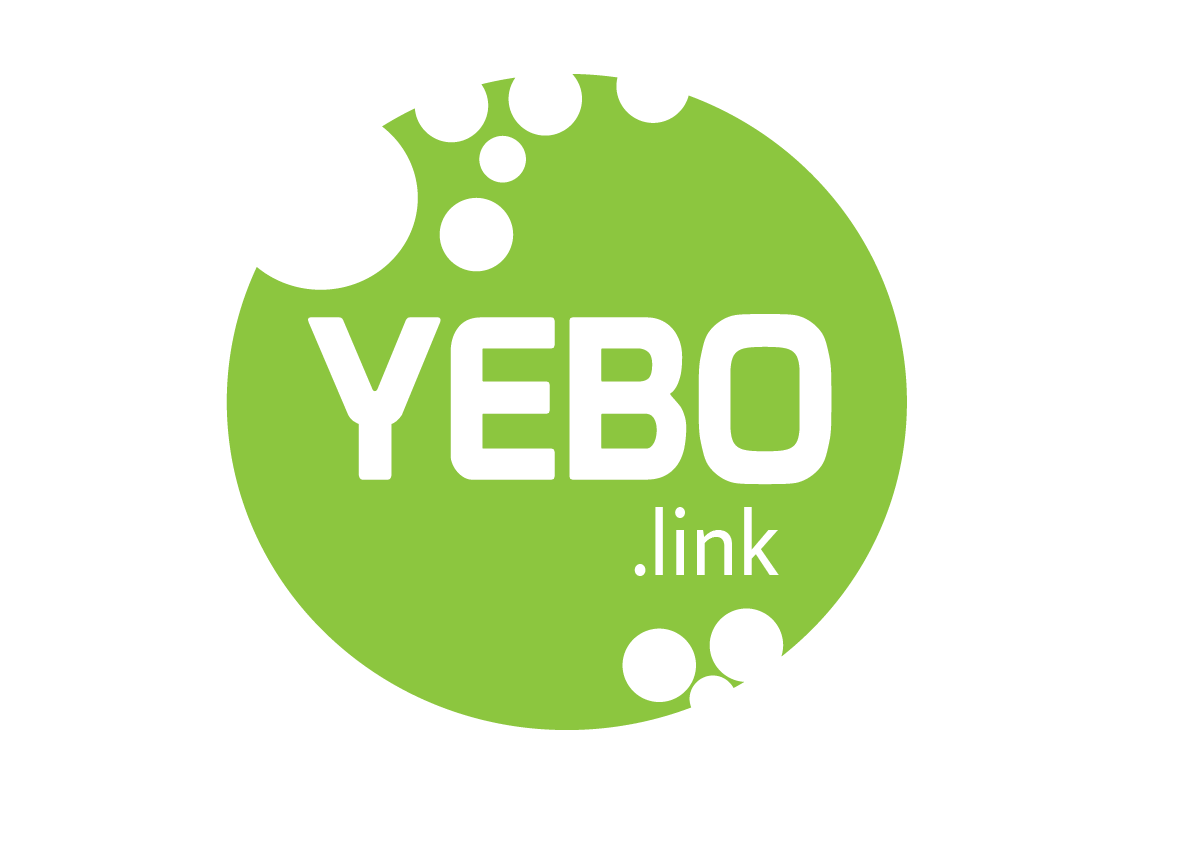
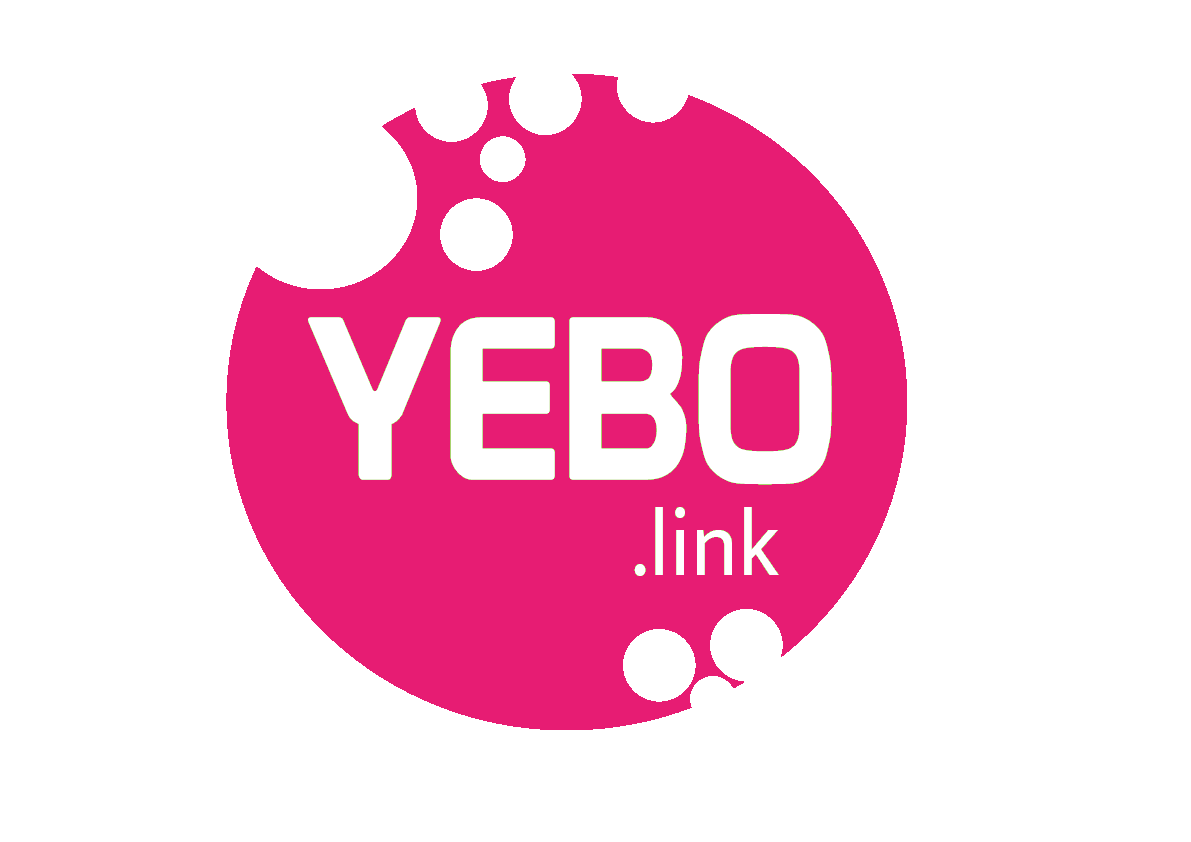
Style all the things

Changed region(s): [[0.1864, 0.0926, 0.7767, 0.8646]]

diff --git a/app/ui/archiveTile.js b/app/ui/archiveTile.js
@@ -53,7 +53,7 @@ function password(state) {
           id="password-input"
           class="${state.archive.password
             ? ''
-            : 'invisible'} border-default rounded-default focus:border-primary leading-normal my-1 py-1 px-2 h-8 dark:bg-grey-80"
+            : 'invisible'} border-default rounded-default focus:border-primary leading-normal my-1 py-1 px-2 h-8 bg-whte"
           autocomplete="off"
           maxlength="${MAX_LENGTH}"
           type="password"
@@ -261,7 +261,7 @@ module.exports = function(state, emit, archive) {
   return html`
     <send-archive
       id="archive-${archive.id}"
-      class="flex flex-col items-start rounded-default shadow-light bg-white p-4 w-full dark:bg-grey-90 dark:border-default dark:border-grey-70"
+      class="flex flex-col items-start rounded-default shadow-light bg-white p-4 w-full  dark:border-default dark:border-grey-70"
     >
       <div class="text-sm opacity-75 w-full mt-2 mb-2">
         
@@ -309,7 +309,7 @@ module.exports = function(state, emit, archive) {
 module.exports.wip = function(state, emit) {
   return html`
     <send-upload-area
-      class="flex flex-col bg-white h-full w-full dark:bg-grey-90"
+      class="flex flex-col bg-white h-full w-full"
       id="wip"
     >
       ${list(
@@ -318,11 +318,11 @@ module.exports.wip = function(state, emit) {
           .map(f =>
             fileInfo(f, remove(f, state.translate('deleteButtonHover')))
           ),
-        'flex-shrink bg-grey-10 rounded-t overflow-y-auto px-6 py-4 md:h-full md:max-h-half-screen dark:bg-black',
-        'bg-white px-2 my-2 shadow-light rounded-default dark:bg-grey-90 dark:border-default dark:border-grey-80'
+        'flex-shrink bg-white rounded-t overflow-y-auto px-6 py-4 md:h-full md:max-h-half-screen bg-white',
+        'bg-white px-2 my-2 shadow-light rounded-default dark:border-default dark:border-grey-80'
       )}
       <div
-        class="flex-shrink-0 flex-grow flex items-end p-4 bg-grey-10 rounded-b mb-1 font-medium dark:bg-grey-90"
+        class="flex-shrink-0 flex-grow flex items-end p-4 bg-white rounded-b mb-1 font-medium "
       >
         <input
           id="file-upload"
@@ -363,6 +363,7 @@ module.exports.wip = function(state, emit) {
       >
         ${state.translate('uploadButton')}
       </button>
+      .
     </send-upload-area>
   `;
 
@@ -422,7 +423,7 @@ module.exports.uploading = function(state, emit) {
   return html`
     <send-upload-area
       id="${archive.id}"
-      class="flex flex-col items-start rounded-default shadow-light bg-white p-4 w-full dark:bg-grey-90"
+      class="flex flex-col items-start rounded-default shadow-light bg-white p-4 w-full"
     >
       ${archiveInfo(archive)}
       <div class="text-xs opacity-75 w-full mt-2 mb-2">
@@ -482,7 +483,7 @@ module.exports.empty = function(state, emit) {
 
   return html`
     <send-upload-area
-      class="flex flex-col items-center justify-center border-2 border-dashed border-grey-transparent rounded-default px-6 py-16 h-full w-full dark:border-grey-60"
+      class="flex flex-col items-center justify-center px-6 py-16 h-full w-full"
       onclick="${e => {
         if (e.target.tagName !== 'LABEL') {
           document.getElementById('file-upload').click();
@@ -587,7 +588,7 @@ module.exports.preview = function(state, emit) {
 
   return html`
     <send-archive
-      class="flex flex-col max-h-full bg-white p-4 w-full md:w-128 dark:bg-grey-90"
+      class="flex flex-col max-h-full bg-white p-4 w-full md:w-128"
     >
       <div class="border-default rounded-default py-3 px-6 dark:border-grey-70">
         ${archiveInfo(archive)} ${details}
@@ -617,7 +618,7 @@ module.exports.downloading = function(state) {
   const progressPercent = percent(progress);
   return html`
     <send-archive
-      class="flex flex-col bg-white rounded-default shadow-light p-4 w-full max-w-sm md:w-128 dark:bg-grey-90"
+      class="flex flex-col bg-white rounded-default shadow-light p-4 w-full max-w-sm md:w-128"
     >
       ${archiveInfo(archive)}
       <div class="link-primary text-sm font-medium mt-2">

diff --git a/app/ui/home.js b/app/ui/home.js
@@ -22,7 +22,7 @@ module.exports = function(state, emit) {
   if (archives.length > 0 && state.WEB_UI.UPLOADS_LIST_NOTICE_HTML) {
     archives.push(html`
       <p
-        class="w-full p-2 border-default dark:border-grey-70 rounded-default text-orange-60 bg-yellow-40 text-center leading-normal"
+        class="w-full p-2 text-orange-60 bg-yellow-40 text-center leading-normal"
       >
         ${raw(state.WEB_UI.UPLOADS_LIST_NOTICE_HTML)}
       </p>
@@ -34,7 +34,7 @@ module.exports = function(state, emit) {
   if (archives.length > 0 && state.WEB_UI.SHOW_THUNDERBIRD_SPONSOR) {
     archives.push(html`
       <a
-        class="w-full p-2 border-default dark:border-grey-70 rounded-default text-orange-60 bg-yellow-40 text-center leading-normal d-block"
+        class="w-full p-2 text-orange-60 bg-yellow-40 text-center leading-normal d-block"
         href="https://www.thunderbird.net/"
       >
         <svg
@@ -54,19 +54,23 @@ module.exports = function(state, emit) {
     `);
   }
 
-  const right =
-    archives.length === 0
-      ? intro(state)
-      : list(archives, 'p-2 h-full overflow-y-auto w-full', 'mb-4 w-full');
+  const right = intro(state)
 
   return html`
     <main class="main">
       ${state.modal && modal(state, emit)}
-      <section
-        class="h-full w-full p-6 md:p-8 overflow-hidden md:flex md:flex-row md:rounded-xl md:shadow-big"
-      >
-        <div class="px-2 w-full md:px-0 md:mr-8 md:w-1/2">${left}</div>
-        <div class="mt-6 w-full md:w-1/2 md:-m-2">${right}</div>
+      <section class="h-full w-full p-6 md:p-8 overflow-hidden md:flex md:flex-row" >
+        <div class="mt-6 w-full md:w-1/2 md:-m-2 grid place-items-center"> <img src="${assets.get('Yebo.png')}"> </div>
+        <section class="h-full w-full p-6 md:p-8 overflow-hidden md:flex md:flex-row"> 
+          <div>
+            <div class="text-2xl font-bold">Share with</div>
+            <div class="text-5xl font-bold">Confidence!</div>
+            <section class="h-full w-full pt-6 md:pt-8 pb-6 md:pb-8 overflow-hidden md:flex md:flex-row"> 
+              <div class="px-2 w-full md:px-0 md:mr-8 md:w-1/2">${left}</div>
+              <div class="mt-6 w-full md:w-1/2 md:-m-2">${right}</div>
+            </section>
+          </div>
+        </section>
       </section>
     </main>
   `;

diff --git a/app/main.css b/app/main.css
@@ -37,7 +37,7 @@ body {
 
 .btn {
   @apply bg-primary;
-  @apply text-white;
+  @apply text-black;
   @apply cursor-pointer;
   @apply py-4;
   @apply px-6;
@@ -192,6 +192,7 @@ footer li a:hover {
 
 .main > section {
   @apply bg-white;
+  @apply text-black;
 }
 
 #password-msg::after {
@@ -283,14 +284,14 @@ select {
 
 @screen dark {
   body {
-    @apply text-grey-10;
+    @apply text-black;
 
     background-image: unset;
   }
 
   .btn {
     @apply bg-primary;
-    @apply text-white;
+    @apply text-black;
   }
 
   .btn:hover {
@@ -314,14 +315,8 @@ select {
   }
 
   .main > section {
-    @apply bg-grey-90;
-  }
-
-  @screen md {
-    .main > section {
-      @apply border-default;
-      @apply border-grey-80;
-    }
+    @apply bg-white;
+    @apply text-black;
   }
 }
 
@@ -377,12 +372,12 @@ select {
 .white-primary:hover,
 .white-primary:focus {
   @apply bg-primary;
-  @apply text-white;
+  @apply text-black;
 }
 
 .primary {
   @apply bg-primary;
-  @apply text-white;
+  @apply text-black;
 }
 
 .white-violet {
@@ -394,14 +389,14 @@ select {
 .white-violet:hover,
 .white-violet:focus {
   @apply bg-violet;
-  @apply text-white;
+  @apply text-black;
 
   background-image: var(--violet-gradient);
 }
 
 .violet {
   @apply bg-violet;
-  @apply text-white;
+  @apply text-black;
 }
 
 .violet:hover,

diff --git a/app/ui/downloadPassword.js b/app/ui/downloadPassword.js
@@ -6,7 +6,7 @@ module.exports = function(state, emit) {
 
   const div = html`
     <div
-      class="h-full w-full flex flex-col items-center justify-center bg-white py-8 max-w-md mx-auto dark:bg-grey-90"
+      class="h-full w-full flex flex-col items-center justify-center bg-white py-8 max-w-md mx-auto"
     >
       <h1 class="text-3xl font-bold mb-4">
         ${state.translate('downloadTitle')}
@@ -31,7 +31,7 @@ module.exports = function(state, emit) {
           id="password-input"
           class="w-full border-l border-t border-b rounded-l-lg rounded-r-none ${invalid
             ? 'border-red dark:border-red-40'
-            : 'border-grey'} leading-loose px-2 py-1 dark:bg-grey-80"
+            : 'border-grey'} leading-loose px-2 py-1 bg-white"
           maxlength="4096"
           autocomplete="off"
           placeholder="${state.translate('unlockInputPlaceholder')}"

diff --git a/app/ui/unsupported.js b/app/ui/unsupported.js
@@ -27,7 +27,7 @@ module.exports = function(state, emit) {
     <main class="main">
       ${state.modal && modal(state, emit)}
       <section
-        class="flex flex-col items-center justify-center text-center bg-white m-6 px-6 py-8 border-default border-grey-30 md:border-none md:px-12 md:py-16 shadow-default w-full md:h-full dark:bg-grey-90"
+        class="flex flex-col items-center justify-center text-center bg-white m-6 px-6 py-8 border-default border-grey-30 md:border-none md:px-12 md:py-16 shadow-default w-full md:h-full"
       >
         <h1 class="text-3xl font-bold">${strings.header}</h1>
         <p class="mt-4 mb-8 max-w-md leading-normal">${strings.description}</p>

diff --git a/app/ui/selectbox.js b/app/ui/selectbox.js
@@ -18,7 +18,7 @@ module.exports = function(selected, options, translate, changed, htmlId) {
   return html`
     <select
       id="${htmlId}"
-      class="appearance-none cursor-pointer border-default rounded-default bg-grey-10 hover:border-primary focus:border-primary pl-1 pr-8 py-1 my-1 h-8 dark:bg-grey-80"
+      class="appearance-none cursor-pointer border-default rounded-default bg-grey-10 hover:border-primary focus:border-primary pl-1 pr-8 py-1 my-1 h-8"
       data-selected="${selected}"
       onchange="${choose}"
     >

diff --git a/app/ui/signupDialog.js b/app/ui/signupDialog.js
@@ -35,7 +35,7 @@ module.exports = function() {
             <input
               id="email-input"
               type="email"
-              class="hidden border-default rounded-lg w-full px-2 py-1 h-12 mb-3 text-lg text-grey-70 leading-loose dark:bg-grey-80 dark:text-white"
+              class="hidden border-default rounded-lg w-full px-2 py-1 h-12 mb-3 text-lg text-grey-70 leading-loose dark:text-white bg-white"
               placeholder=${state.translate('emailPlaceholder')}
             />
             <input

diff --git a/app/ui/account.js b/app/ui/account.js
@@ -89,7 +89,7 @@ class Account extends Component {
         />
         <ul
           id="accountMenu"
-          class="invisible absolute top-0 right-0 mt-10 pt-2 pb-2 bg-white shadow-md whitespace-nowrap outline-none z-50 dark:bg-grey-80"
+          class="invisible absolute top-0 right-0 mt-10 pt-2 pb-2 bg-white shadow-md whitespace-nowrap outline-none z-50"
           onblur="${e => this.hideMenu(e)}"
         >
           <li class="p-2 text-grey-60 dark:text-grey-50">${user.email}</li>

diff --git a/app/ui/modal.js b/app/ui/modal.js
@@ -3,7 +3,7 @@ const html = require('choo/html');
 module.exports = function(state, emit) {
   return html`
     <send-modal
-      class="absolute inset-0 flex items-center justify-center overflow-hidden z-40 bg-white md:rounded-xl md:my-8 dark:bg-grey-90"
+      class="absolute inset-0 flex items-center justify-center overflow-hidden z-40 bg-white md:rounded-xl md:my-8"
     >
       <div
         class="h-full w-full max-h-screen absolute top-0 flex justify-center md:items-center"

diff --git a/app/ui/body.js b/app/ui/body.js
@@ -6,7 +6,7 @@ module.exports = function body(main) {
   return function(state, emit) {
     const b = html`
       <body
-        class="flex flex-col items-center font-sans md:h-screen md:bg-grey-10 dark:bg-black"
+        class="flex flex-col items-center font-sans md:h-screen bg-white"
       >
         ${state.cache(Header, 'header').render()} ${main(state, emit)}
         ${state.cache(Footer, 'footer').render()}

diff --git a/app/ui/copyDialog.js b/app/ui/copyDialog.js
@@ -21,7 +21,7 @@ module.exports = function(name, url) {
           <input
             type="text"
             id="share-url"
-            class="block w-full my-4 border-default rounded-lg leading-loose h-12 px-2 py-1 dark:bg-grey-80"
+            class="block w-full my-4 border-default rounded-lg leading-loose h-12 px-2 py-1 bg-white"
             value="${url}"
             readonly="true"
           />

diff --git a/app/ui/downloadCompleted.js b/app/ui/downloadCompleted.js
@@ -6,7 +6,7 @@ module.exports = function(state) {
   return html`
     <div
       id="download-complete"
-      class="flex flex-col items-center justify-center h-full w-full bg-white p-2 dark:bg-grey-90"
+      class="flex flex-col items-center justify-center h-full w-full bg-white p-2 bg-white"
     >
       <h1 class="text-center text-3xl font-bold my-2">
         ${state.translate('downloadFinish')}
